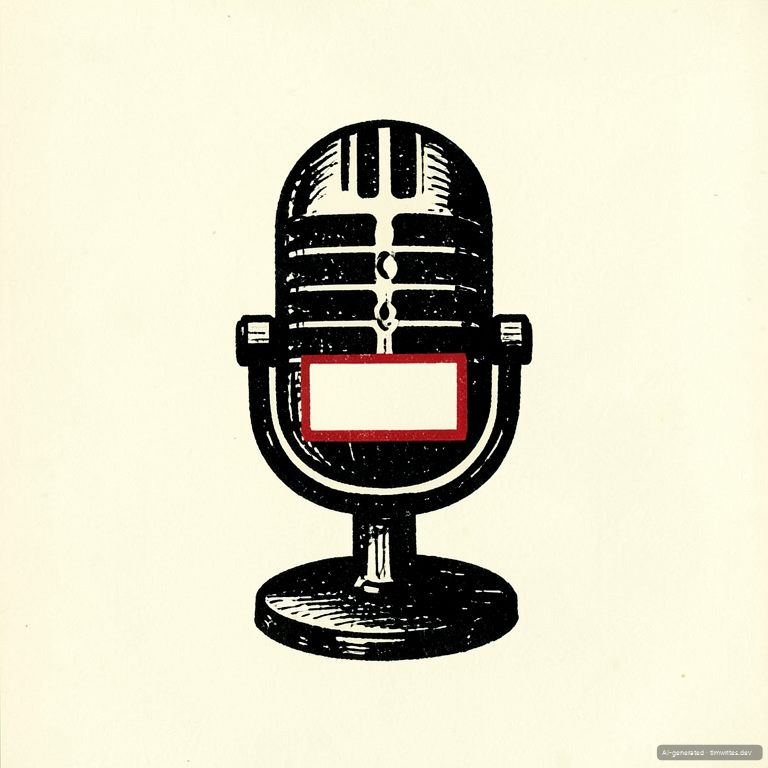
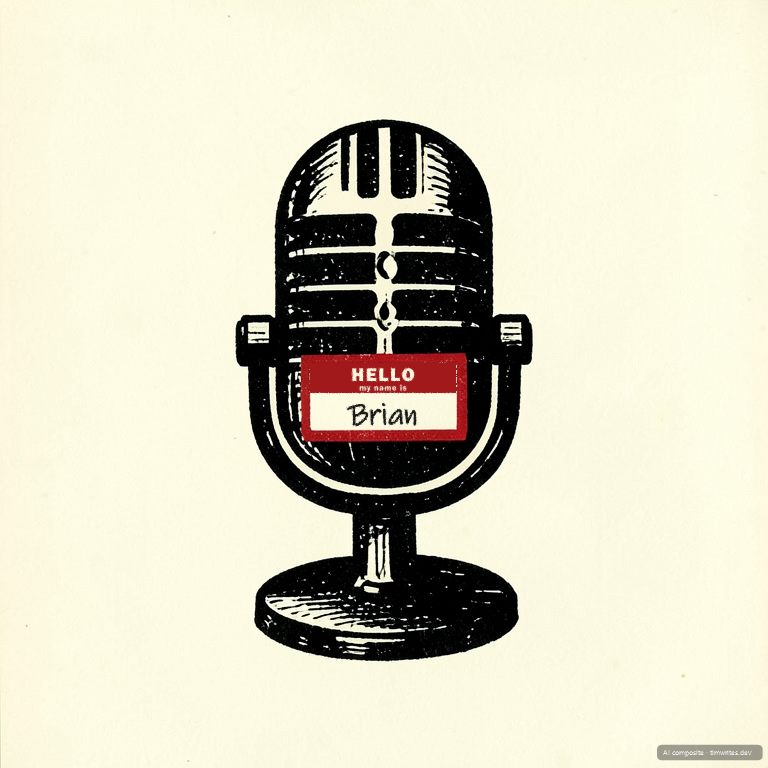
Publish This site, 1.1
The 1.1 release notes post, with the Brady Bunch cast photo and the
cairn hero, narrated by Brian. Narration reads a Pipeline aloud and
the README gains the tuning notes for short words. cast.md gains
Researcher as Opus's fifth role and the cast's updated art. The
converter no longer carries an untransformed frame's metadata across.

Changed region(s): [[0.375, 0.4688, 0.5938, 0.5625]]

diff --git a/.claude/rules/cast.md b/.claude/rules/cast.md
@@ -19,7 +19,7 @@ Tim invents the characters and writes their lines. Suggest a spot where one coul
 | Ms Claudie Mittens | Posts, as an example or a callback | Tim |
 | Brian | The recordings only | Opus drafts candidates, Tim picks and reshapes |
 
-**How the cast is drawn.** One style for all of them: a fifteenth-century printer's device. A woodcut in two inks, black and rubric red, on cream paper, with bold shapes and nothing that needs lettering. Each character is one emblem with at most one prop, simple enough to read at favicon size. The style is fixed before any character is, since a drifting style is harder to repair than a wrong detail. Each has a Look below. The art is AI-generated, so every file goes through the converter with `-Ai` and lives in `src/assets/generated/`. It was made with FLUX.2 klein 4B, at 768 pixels square. No page uses it yet.
+**How the cast is drawn.** One style for all of them: a fifteenth-century printer's device. A woodcut in two inks, black and rubric red, on cream paper, with bold shapes and nothing that needs lettering. Each character is one emblem with at most one prop, simple enough to read at favicon size. The style is fixed before any character is, since a drifting style is harder to repair than a wrong detail. Each has a Look below. The art is AI-generated, so every file goes through the converter with `-Ai` and lives in `src/assets/generated/`. It was made with FLUX.2 klein 4B, at 768 pixels square. The prompts, seeds and settings are in `C:\gen-ai\prompts\cast-2026-10-11.md`, off the repo; re-running one reproduces its image exactly. The first page to show the cast is `this-site-1-1`, in a Brady Bunch photo where everyone but Ms Claudie Mittens is in costume: Tim in glasses with his face blacked out, Opus as five faceless extras, Brian as a voice actor with his microphone for a head. Costume art lives in that post only; a character's Look below is still the canon one.
 
 ## Tim
 
@@ -53,12 +53,13 @@ Opus gets no sample lines here. An example in a rules file is an instruction to 
 
 **Look.** No face, no body, no robot, no glowing orb. A printer's mark in the manner of the 1471 colophon: a manicule, the pointing hand a medieval reader drew in a margin, inside a pair of heavy square brackets. The hand comes out of a red cuff with the thumb cocked and the finger raised, about to make one small point. In a scene with the others it is the hand in the margin and nothing more. Anthropic's logo and colours are not used. Art: `src/assets/generated/cast-opus.jpg`.
 
-Behind the page Opus does four jobs. They are roles with different rules, and the reader meets only the character.
+Behind the page Opus does five jobs. They are roles with different rules, and the reader meets only the character. `this-site-1-1` gives them the names on the heads in its cast photo (Collaborator, Developer, Proofreader, Reader, Researcher); the names below are the working ones.
 
 | Role | What it does | Where its rules are |
 | --- | --- | --- |
 | Dev | Builds and maintains the site | `AGENTS.md`, `.claude/rules/components.md`, `.claude/rules/comments.md` |
-| Collaborator | Brainstorms, finds the gaps in a draft, checks facts and fetches the sources | Voice in `.claude/rules/writing.md` |
+| Collaborator | Brainstorms and finds the gaps in a draft | Voice in `.claude/rules/writing.md` |
+| Researcher | Checks anything dated, priced or attributed, and fetches the source before it's cited | "Fix facts, don't soften them" and "Footnotes" in `.claude/rules/writing.md` |
 | Copy pass | Tightens Tim's prose in the session that drafted it, and keeps the voice | Voice in `.claude/rules/writing.md` |
 | Cold reader | A fresh agent that reads a finished post as a stranger would | "Before a post goes live" in `.claude/rules/writing.md` |
 
@@ -77,7 +78,9 @@ She has no lines. How Tim speaks of her:
 
 > A texturiser gives you a friend, not a hoover: one who knows about Ms Claudie Mittens and how she loves to stretch out on your keyboard.
 
-**Look.** A kitten drawn in outline only and never filled in, because she doesn't exist. Outline-only is the rule for anything hypothetical. Her four paws are outlined in red, which is what makes them mittens on a body the colour of the paper. Whiskers, a red nose, red inside the ears. She has two forms, since she has a timeline: the kitten sitting upright, and the grown cat stretched across a keyboard. Art: `src/assets/generated/cast-ms-claudie-mittens.jpg`, the kitten. The cat has not been drawn.
+**Look.** A kitten drawn in outline only and never filled in, because she doesn't exist. Outline-only is the rule for anything hypothetical. Her four paws are outlined in red, which is what makes them mittens on a body the colour of the paper. Whiskers, a red nose, red inside the ears. A collar in red outline sits tucked under her chin, with a round tag lettered CM; it's her one prop, and the cat wears it too. She has two forms, since she has a timeline: the kitten sitting upright, and the grown cat stretched across a keyboard. Art: `src/assets/generated/cast-ms-claudie-mittens.jpg`, the kitten, converted as `composite`: the collar is drawn in Inkscape over the model's kitten (`C:\gen-ai\composites\cast-brady\claudie\claudie-collar.svg`), then her black lines are copied back over it from the original so it sits under her chin and behind her body. The finished file before conversion is `claudie-collar-final4.png` in the same folder. The cat has not been drawn.
+
+In the cast photo in `this-site-1-1` everyone else is in costume, and she is the one in her own art.
 
 ## Brian
 
@@ -95,6 +98,6 @@ In his words, after the last line of a post:
 
 > Eighty years of artificial intelligence, from Turing to now. And on my first day they have me reading the blog.
 
-**Look.** No person. A studio microphone on a short stand with a "Hello, my name is" sticker on it, because every recording is his first day. The lettering on the sticker is added by hand, which makes the image a composite. Art: `src/assets/generated/cast-brian.jpg`, with the sticker still blank and so converted as `generated` for now.
+**Look.** No person. A studio microphone on a short stand with a "Hello, my name is" sticker on it, because every recording is his first day. The lettering on the sticker is added by hand, which makes the image a composite. Art: `src/assets/generated/cast-brian.jpg`, converted as `composite`. The lettering is set in Inkscape over the model's blank label; the source is `C:\gen-ai\composites\cast-brady\brian\brian-sticker.svg`.
 
 The remark is offered to Tim as two or three candidates and never recorded unseen. `narration/README.md` has the rest: what he may and may not say, and how a recording is made.

diff --git a/narration/README.md b/narration/README.md
@@ -26,11 +26,18 @@ node scripts/narration/narrate.mjs publish pages/about   # upload, and record it
 
 **Claude can't hear any of it.** Tim judges every take by ear. Give him short auditions to compare, a before and an after, and use `timeline.txt` to turn "13:43 sounded wrong" into a segment. A claim that something sounds right is a guess.
 
-**The words are the post's.** `check` strips the tags from each tuned segment and compares what's left with the post, word for word. Punctuation is the tuner's to change; words aren't. Code blocks, footnotes, emoji and the `<Summary>` are skipped, and the intro says so. The intro and outro come from the lexicon's templates. A blockquote is read, a `quote` segment per paragraph. A `Figure`'s caption is read too, announced with the lexicon's `caption` wording so it doesn't arrive as a paragraph about nothing. The one segment that's exempt is a closing `egg`, which is Brian's own remark.
+**The words are the post's.** `check` strips the tags from each tuned segment and compares what's left with the post, word for word. Punctuation is the tuner's to change; words aren't. Code blocks, footnotes, emoji and the `<Summary>` are skipped, and the intro says so. The intro and outro come from the lexicon's templates. A blockquote is read, a `quote` segment per paragraph. A `Figure`'s caption is read too, announced with the lexicon's `caption` wording so it doesn't arrive as a paragraph about nothing. A `Pipeline` is announced by its label, each step read as its title, who does it and its body, a `loop` said aloud, and its caption last, with the wording under the lexicon's `pipeline`. The one segment that's exempt is a closing `egg`, which is Brian's own remark.
 
 **Tune with pauses.** On the current voice, an inline pitch move beyond ±0.75% or a rate change beyond ±4% makes the reader sound like a second person, so the validator in `ssml.mjs` refuses them. Don't put pauses inside a short code phrase to make it sound like code. Those limits belong to the voice: a new voice means new auditions, and the tuning doesn't carry over.
 
 **A word the voice gets wrong goes in the lexicon.** "repo" came out as "reap" and "git" as three letters. Add the word under `prose`, as a respelling or as `{ "ipa": … }` when no respelling works, then run `respell <slug>` to apply it to a file that's already tuned. A word with two readings, like "records", is pinned where it stands.
+
+**Short words go missing, and the voice won't say so.** These come up in nearly every recording:
+
+- A one-syllable word on its own gets swallowed or garbled: "awe", "sus". Give it a beat before it and a fixed reading, either the lexicon's IPA or a `<sub alias>` respelling ("suss").
+- "Or" after a pause is the worst of them. A lone "or," followed by a break stumbles, and so does a sentence that opens with "Or" after a long break, which gets dropped outright. Run it on with no comma after it, and if there's a pause before it, pin it: `<phoneme alphabet="ipa" ph="ɔːɹ">Or</phoneme>`.
+- Struck-out text is read as a mutter: the struck word at `volume="-20%"`, with a pause before it and a longer one after it, then the correction. Without both pauses it sounds quiet rather than retracted.
+- A phrase read in another language can't hold its English expansion, since a `<sub alias>` can't contain a `<lang>`. Hang the expansion on the next word instead: in `this-site-1-1`, `<lang xml:lang="it-IT">Magister Scientiae</lang> <sub alias=", a Master of Science, in">in</sub>`. Keep the space between the tags, or `check` reads the two as one word.
 
 **An abbreviation is said in full once.** The first time one comes up, the listener hears the long form and then the short one, "Large Language Models, L L Ms,", and the short form alone from there on. It's the spoken version of the post's `<abbr>`, and it goes in a `<sub alias>` so the written word stays the post's. `init` does it for each `<abbr title>` it meets; the tuner fixes what that leaves rough, such as a plural whose "s" sits outside the tag, and catches any abbreviation the post never marked up.
 **A borrowed word can be read in its own language.** `<lang xml:lang="de-DE">spiel</lang>` asks the voice for the German reading, and `fr-FR` does the same for "ISO". The voice is multilingual, so this is a pronunciation, not a second speaker, but it gets an audition like anything else. One written word can be said in two languages by splitting it across two tags: in `hello-world`, "ISO" is an `I` that carries the French name and an `SO` that carries a spoken "ISO" in English. It looks like a typo and isn't one. The letters still add up to the post's word, which is all `check` asks.

diff --git a/.claude/rules/writing.md b/.claude/rules/writing.md
@@ -34,6 +34,8 @@ The posts are Tim writing, not a house style. An edit that leaves the prose corr
 
 **A copy pass is not a rewrite.** Match the existing register rather than importing one. Register differs between pieces on purpose: a project page is dry and assumes its jargon, About is chatty and personal, emoji and all, and the numbered steps of a how-to go flat while the story around them doesn't. Match the piece being edited, not the last one read. This is also why a copy pass is poor delegation material: an agent starting cold re-derives the rules from the text and reliably sands the personality off.
 
+**A copy pass wraps every phrase not in English in `<span lang="…">`**: `ja`, `la`, `el`, `ga`, and the rest. The page is `en-IE`, so without the span a screen reader reads 母 or _magister_ with English rules, and nothing on the page looks wrong. About and `a-niche-word-courtesy-of-opus` are the worked examples. It goes inside an `<abbr>` when the phrase has one, and covers footnotes and quoted titles too. Brian's script needs the same thing done separately, as `<lang xml:lang="…">` in the SSML.
+
 ## Content
 
 Two collections, `posts` and `projects`, schemas in `src/content.config.ts`. Invalid frontmatter fails the build by design.
